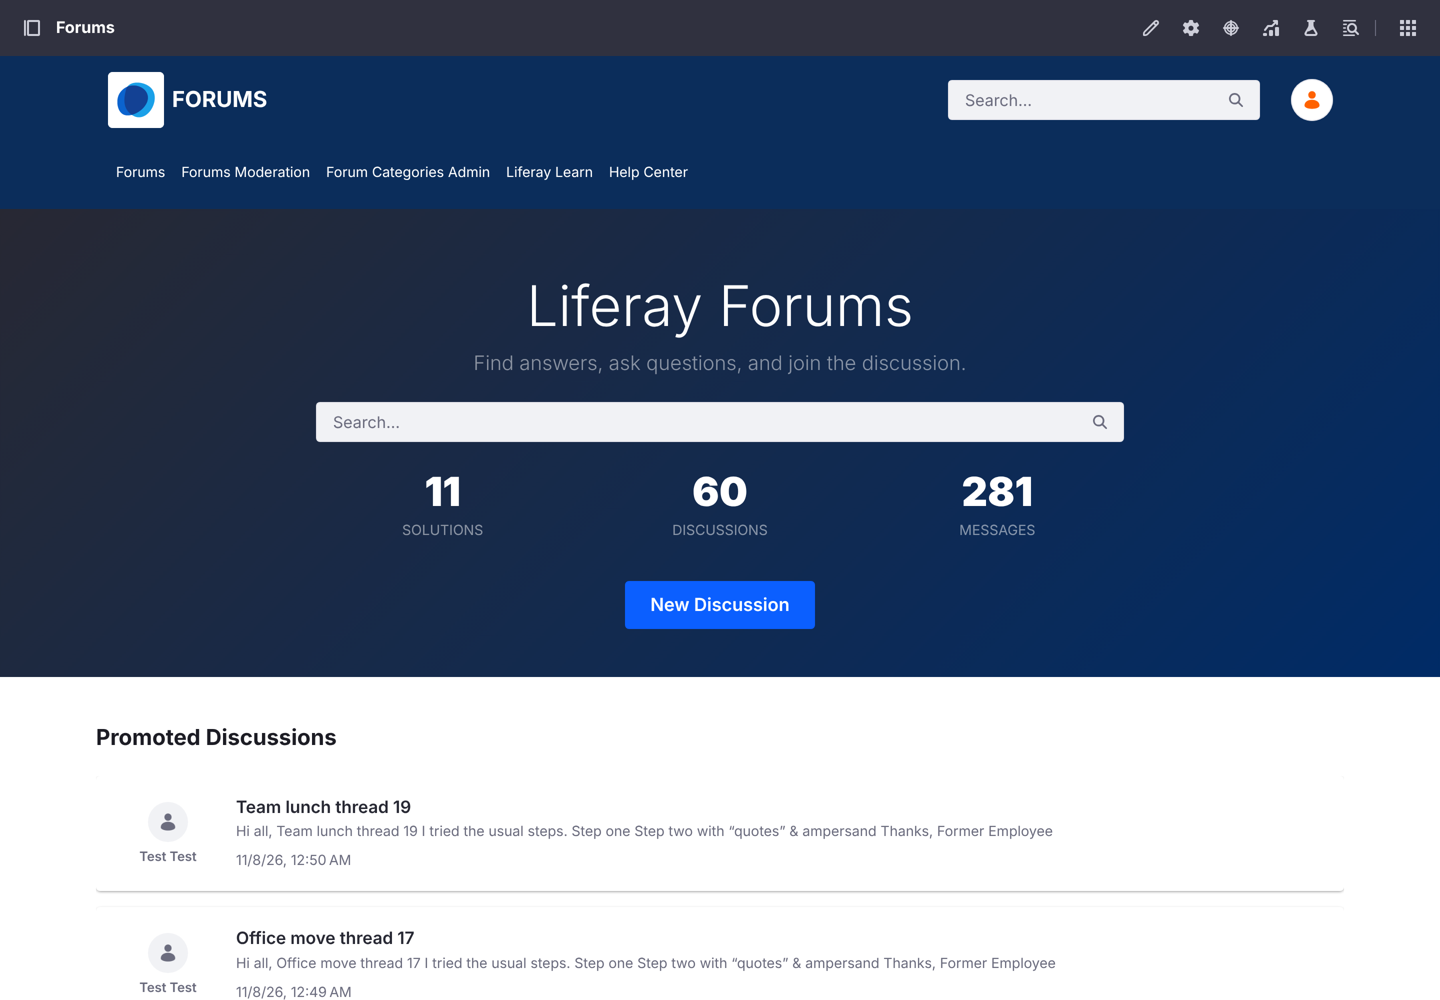
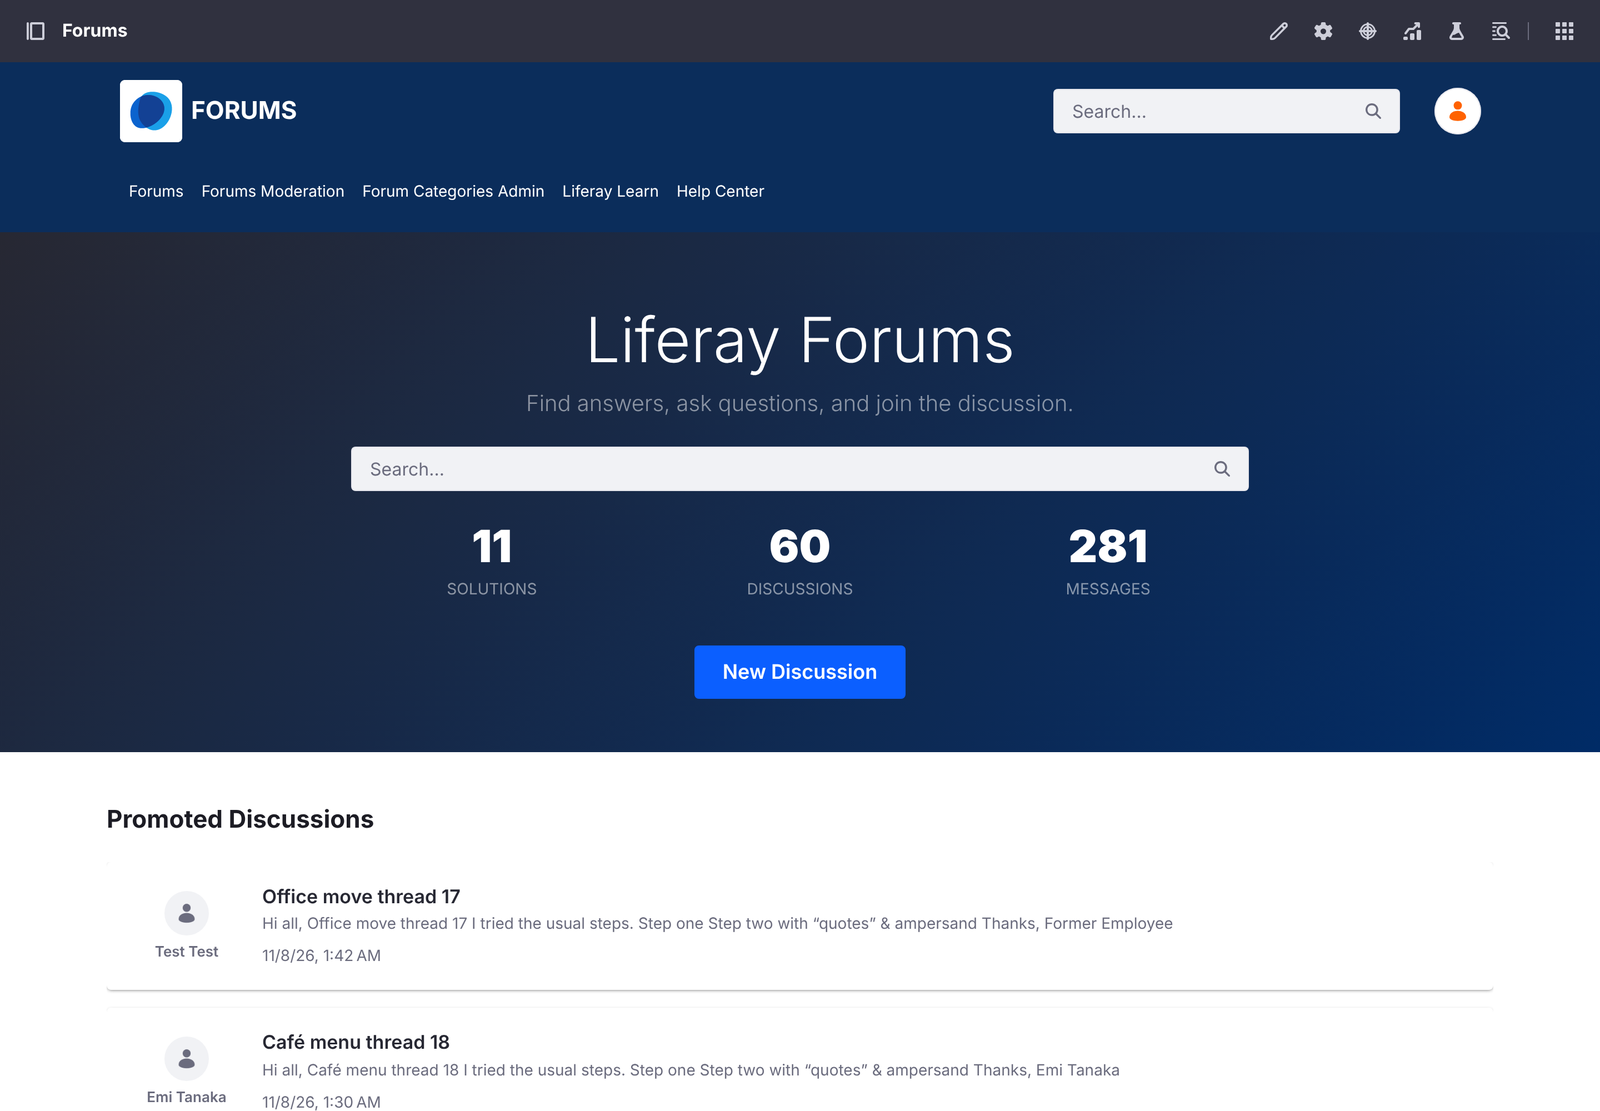
SharePoint recipe: screenshots of every step
New project from the preset, tested connections (Liferay DXP), the worked-out run
order, a clean dry run, validation listing the posts by a user who wasn't migrated,
and a migrated discussion with its accepted answer, nested replies, likes and an
attachment.

Changed region(s): [[0.1562, 0.93, 0.7188, 1.0], [0.1562, 0.775, 0.7188, 0.868], [0.0938, 0.961, 0.125, 0.992]]

diff --git a/docs/sharepoint-discussions-to-forums/index.md b/docs/sharepoint-discussions-to-forums/index.md
@@ -53,22 +53,34 @@ Check SharePoint's site users before you start. Posts by someone without an emai
 ### Step 3: Create the Migration Project
 
 1. Start Migration Studio and open it in your browser.
-1. Click **New project** and choose **SharePoint discussion boards → Liferay Forums**.
-1. In **Connections**, enter:
-    - **SharePoint:** the server's address, such as `https://sharepoint.example.com`. SharePoint Server on premises usually needs **NTLM** authentication, with the user as `DOMAIN\user`.
-    - **Liferay:** the forum's Liferay address and the administrator account.
+1. Click **New project** and choose the **SharePoint discussion boards → Liferay Forums** preset. Enter the SharePoint server's address, the SharePoint site (its path under `/sites/`, such as `intranet`), and the forum's Liferay address, then click **Create project**.
 
-    Passwords are read from environment variables on the Migration Studio server, so they're never stored in the project.
-1. In **Settings → Variables**, set `spSite` to the SharePoint site's path under `/sites/`, and `forumSiteKey` to the forum site's friendly URL from Step 1.
-1. Click **Test connection** on each connection. The Liferay connection should show **Liferay DXP**.
+    ![Creating the project from the SharePoint discussion boards → Liferay Forums preset.](new-project.png){: .screenshot }
+
+1. If the forum site's friendly URL isn't `forums`, change `forumSiteKey` in **Settings → Variables**.
+1. In **Connections**, enter the user for each side:
+    - **SharePoint:** a user who can read the site. SharePoint Server on premises usually needs **NTLM** authentication, with the user as `DOMAIN\user`.
+    - **Liferay:** the forum's administrator account.
+
+    Write passwords as `env:` followed by the name of an environment variable on the Migration Studio server, such as `env:LUMT_SOURCE_PASSWORD`, so they're never stored in the project.
+1. Click **Test connection** on each connection. The Liferay connection must show **Liferay DXP**: Migration Studio doesn't load into Liferay Community Edition.
+
+    ![Both connections tested: SharePoint connected, and the forum's Liferay connected as the administrator and identified as Liferay DXP.](connections.png){: .screenshot }
 
 ### Step 4: Extract, Dry Run and Load
 
-On the project's **Overview** page:
+Migration Studio works out the order from the mappings: users and categories first, then discussions, their original posts and replies (each reply after the one it answers), then attachments, likes, and finally each discussion's last post date. **Run order** shows it:
+
+![The run order Migration Studio worked out: users and categories first, then threads, original posts and replies, then attachments, likes and last post dates.](run-order.png){: .screenshot }
+
+On the **Runs** page:
 
 1. **Extract** reads the discussion boards, site users, discussions, replies, attachments and likes from SharePoint, and stages them.
-1. **Dry run** shows every request the load would send to Liferay, without writing anything. Review it.
-1. **Load** writes to the forum. Migration Studio works out the order: users and categories first, then discussions, their original posts and replies (each reply after the one it answers), then attachments, likes, and finally each discussion's last post date.
+1. **Dry run** prepares every request the load would send to Liferay, without writing anything. Check that nothing failed, and use **Download requests** to review them.
+
+    ![A dry run: every user, category, thread, post, reply, attachment and like prepared, none failed, and nothing written to Liferay.](dry-run.png){: .screenshot }
+
+1. **Load** writes to the forum.
 
 How SharePoint maps to Liferay Forums:
 
@@ -93,13 +105,15 @@ Click **Validate**. Migration Studio checks:
 
 - **Counts:** every discussion, reply, attachment and like was loaded.
 - **A sample of migrated posts,** read back from Liferay and compared field by field with SharePoint, including the author.
-- **Dependencies:** posts whose author wasn't migrated, for example *51 posts and replies by "Former Employee", a user without an email address*.
+- **Records that point to something not migrated:** posts whose author wasn't migrated, such as the posts and replies by *Former Employee*, a SharePoint user without an email address. The migration account posted them instead.
 
-![A migrated discussion: the original SharePoint dates, nested replies, and likes as votes. The original post is by a SharePoint user without an email address, so the migration account posted it.](migrated-thread.png){: .screenshot }
+![Validation: everything loaded and matched the spot check. Threads, posts and replies are marked "check" because 66 of them are by Former Employee, who wasn't migrated.](validation.png){: .screenshot }
 
 ## Result
 
 Open the forum. Each SharePoint board is a category, and its discussions show their replies in the same tree as in SharePoint, with best answers marked and likes counted as votes. Sign in as a migrated member and check that their posts show them as the author.
+
+![A migrated discussion: the original author and SharePoint date, the solved banner and accepted answer, nested replies, likes as votes, and an attachment. The "Test Test" reply was written in SharePoint by Former Employee, so the migration account posted it.](migrated-thread.png){: .screenshot }
 
 **Tested:** Liferay Forums 1.0.0 on Liferay DXP 2026.Q1.4 LTS with PostgreSQL, against a simulated SharePoint Server 2016 REST API. It migrated 60 discussions, 281 messages nested up to three levels, 38 attachments and 308 likes, with no errors. Every post kept its author, except the 51 by a user without an email address. **Run a test migration from your own SharePoint farm into a test forum first.**
 
